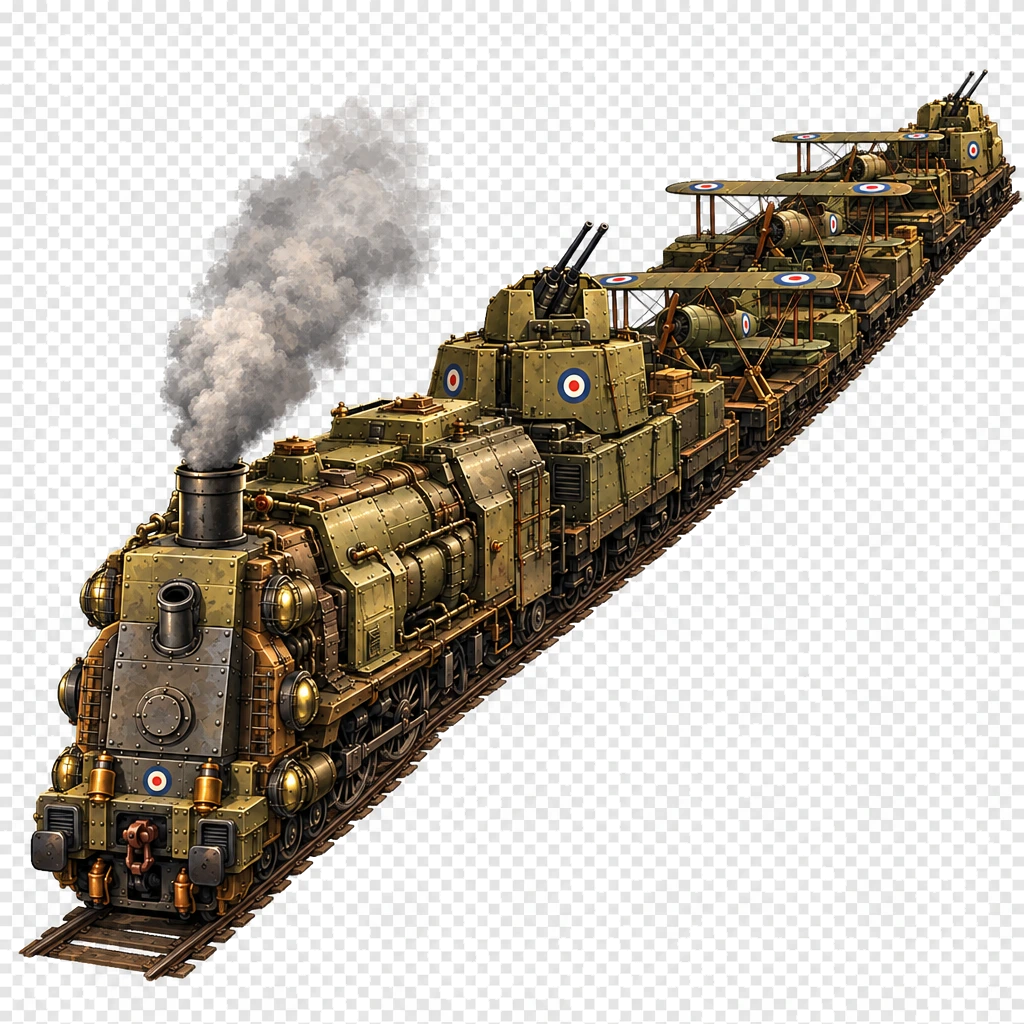
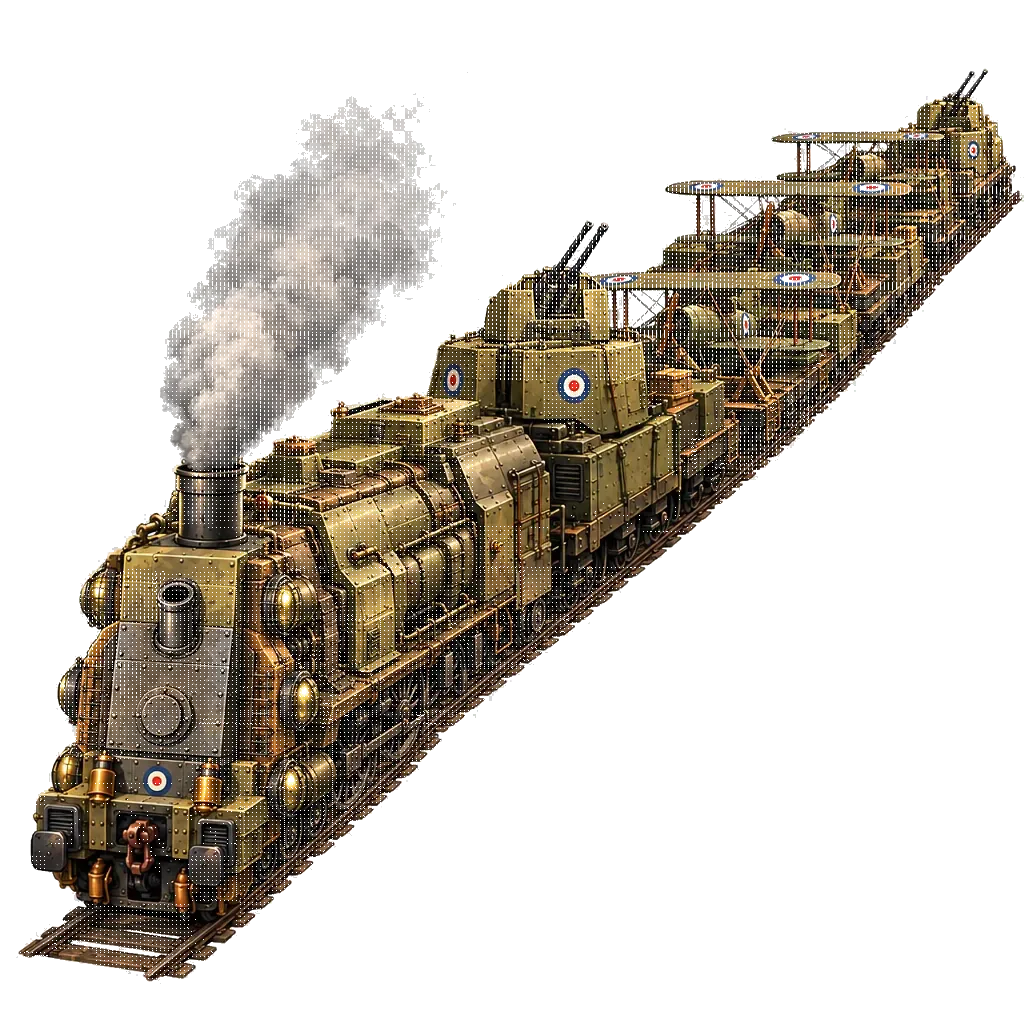
Fix fliegerzug cut-in art: remove baked checkerboard background

Changed region(s): [[0.0, 0.0, 1.0, 1.0], [0.3125, 0.6875, 0.3438, 0.7188], [0.125, 0.5625, 0.1562, 0.5938]]

diff --git a/app.js b/app.js
@@ -579,7 +579,7 @@ let legendarySignature='';
 const _hud51=hud;
 const RELIC_COOLDOWNS={grunkreuz:{rem:g=>g.grunkreuzOn>0?0:(g.grunkreuzOff??0),iv:()=>LEGENDARY_DEFENSE_BALANCE.grunkreuzOffDuration},rankinShell:{rem:g=>g.rankinTimer??0,iv:()=>LEGENDARY_DEFENSE_BALANCE.rankinInterval},kaiserFog:{rem:g=>g.brockSmokeTimer??g.kaiserFogTimer??0,iv:g=>g.brockSmoke?AUGMENTATION_OVERHAUL_BALANCE.smokeInterval:LEGENDARY_DEFENSE_BALANCE.fogInterval},motorCannon:{rem:g=>g.motorCannonTimer??0,iv:g=>g.ordnanceInterval?g.ordnanceInterval(LEGENDARY_BALANCE.motorCannonInterval):LEGENDARY_BALANCE.motorCannonInterval},sparkPlug:{rem:g=>g.mccuddenRepairTimer??0,iv:()=>AUGMENTATION_OVERHAUL_BALANCE.repairInterval}};
 const soloRelicRefs=[],coopRelicRefs={p1:[],p2:[]};
-const BOSS_CUTIN_ART={'gotha-squadron':'gotha_night.webp?v=483','london-apron-raid':'boss-art-london-apron.webp?v=338&b=326','paris-gun':'boss-art-paris-gun.webp?v=426&b=326','lincomparable':'boss-art-lincomparable.webp?v=426&b=326','sms-stuttgart':'boss-art-sms-stuttgart.webp?v=426&b=326','hms-zubian':'boss-art-hms-zubian.webp?v=426&b=326','a7v-flak':'boss-art-a7v-flak.webp?v=426&b=326','mark-v-cruiser':'boss-art-mark-v-cruiser.webp?v=426&b=326','livens-flame-projector':'boss-art-livens-flame-projector.webp?v=426&b=326','minenwerfer-battery':'boss-art-minenwerfer-battery.webp?v=426&b=326','drachen-net':'boss-art-drachen-net.webp?v=426&b=326','london-apron':'boss-art-london-apron.webp?v=426&b=326','zeppelin-l70':'boss-art-zeppelin-l70.webp?v=426&b=326','hma23':'boss-art-hma23.webp?v=426&b=326','gik':'boss-art-gik.webp?v=426&b=326','ca4':'boss-art-ca4.webp?v=426&b=326','armored-harbor-fortress':'boss-art-armored-harbor-fortress.webp?v=426&b=326','fliegerzug':'boss-art-fliegerzug.webp?v=483','treffas-wagen':'boss-art-treffas.webp?v=483','jasta11-circus':'portrait-baron.webp?v=426&b=326','naval10-black-flight':'portrait-collishaw.webp?v=426&b=326','mark4-wedge':'boss-art-mark1-20261001.webp?v=somme20261001','morser-battery':'boss-art-schwaben20261001.webp?v=somme20261001','staaken-rvi':'boss-art-staaken-rvi.webp?v=426&b=345','london-searchlight':'boss-art-london-searchlight.webp?v=426&b=345','flak-tower':'boss-art-flak-tower.webp?v=444'};;
+const BOSS_CUTIN_ART={'gotha-squadron':'gotha_night.webp?v=483','london-apron-raid':'boss-art-london-apron.webp?v=338&b=326','paris-gun':'boss-art-paris-gun.webp?v=426&b=326','lincomparable':'boss-art-lincomparable.webp?v=426&b=326','sms-stuttgart':'boss-art-sms-stuttgart.webp?v=426&b=326','hms-zubian':'boss-art-hms-zubian.webp?v=426&b=326','a7v-flak':'boss-art-a7v-flak.webp?v=426&b=326','mark-v-cruiser':'boss-art-mark-v-cruiser.webp?v=426&b=326','livens-flame-projector':'boss-art-livens-flame-projector.webp?v=426&b=326','minenwerfer-battery':'boss-art-minenwerfer-battery.webp?v=426&b=326','drachen-net':'boss-art-drachen-net.webp?v=426&b=326','london-apron':'boss-art-london-apron.webp?v=426&b=326','zeppelin-l70':'boss-art-zeppelin-l70.webp?v=426&b=326','hma23':'boss-art-hma23.webp?v=426&b=326','gik':'boss-art-gik.webp?v=426&b=326','ca4':'boss-art-ca4.webp?v=426&b=326','armored-harbor-fortress':'boss-art-armored-harbor-fortress.webp?v=426&b=326','fliegerzug':'boss-art-fliegerzug.webp?v=514','treffas-wagen':'boss-art-treffas.webp?v=483','jasta11-circus':'portrait-baron.webp?v=426&b=326','naval10-black-flight':'portrait-collishaw.webp?v=426&b=326','mark4-wedge':'boss-art-mark1-20261001.webp?v=somme20261001','morser-battery':'boss-art-schwaben20261001.webp?v=somme20261001','staaken-rvi':'boss-art-staaken-rvi.webp?v=426&b=345','london-searchlight':'boss-art-london-searchlight.webp?v=426&b=345','flak-tower':'boss-art-flak-tower.webp?v=444'};;
 function setBossCutin(imgSrc,name,kicker,detail,side='boss'){$('bossCutin').classList.toggle('skill-side',side==='skill');$('bossCutinImg').src=imgSrc;$('bossCutinImg').alt=name;$('bossCutinKicker').textContent=kicker;$('bossCutinName').textContent=name;$('bossCutinDetail').textContent=detail||''}
 function stageBossCutinCheck(){const sb=game?.stageBoss?.stages;if(sb&&sb.phase==='boss'&&sb.bossId&&sb.bossId!==lastStageBossId){lastStageBossId=sb.bossId;const nm=(getLocale()==='en'?BOSS_NAMES_EN[sb.bossId]:BOSS_CATALOG[sb.bossId]?.name)||sb.bossId;setBossCutin(BOSS_CUTIN_ART[sb.bossId]||'',nm,getLocale()==='en'?'AREA BOSS':'지역 보스',bossTactic(sb.encounter,getLocale()));$('bossWarnSub').textContent=nm+' · AREA BOSS INBOUND';show('bossWarning');{const warningRun=game,warningBoss=sb.encounter;setTimeout(()=>{if(game===warningRun&&game?.stageBoss?.stages.encounter===warningBoss)show('bossWarning',false)},1600)}bossCardFrom=performance.now()+1400;bossCutinUntil=bossCardFrom+2600;sfx('bossSting');{const run=game,encounter=sb.encounter;const later=(name,delay)=>setTimeout(()=>{if(game===run&&run.stageBoss?.stages.encounter===encounter&&run.state==='playing'&&!regionTransitionUntil&&!document.hidden)sfx(name)},delay);later('bossSting',620);if(['paris-gun','lincomparable','fliegerzug'].includes(sb.bossId))later('trainWhistle',380);if(BOSS_CATALOG[sb.bossId]?.stage===1)later('shipHorn',420)}}}
 function paintRelicBadge(rb){const c=rb.ctx,spec=RELIC_COOLDOWNS[rb.id],owner=rb.owner();let prog=1;if(spec&&owner){const iv=spec.iv(owner)||1;prog=Math.max(0,Math.min(1,1-Math.max(0,spec.rem(owner))/iv))}c.clearRect(0,0,48,48);if(prog>=1){drawGameIcon(c,rb.key,24,24,42);return}c.globalAlpha=.32;drawGameIcon(c,rb.key,24,24,42);c.globalAlpha=1;c.save();c.beginPath();c.moveTo(24,24);c.arc(24,24,26,-Math.PI/2,-Math.PI/2+prog*Math.PI*2);c.closePath();c.clip();drawGameIcon(c,rb.key,24,24,42);c.restore();if(prog>0&&prog<1){c.save();c.strokeStyle='#ffe9a8';c.lineWidth=2;c.beginPath();c.arc(24,24,21,-Math.PI/2,-Math.PI/2+prog*Math.PI*2);c.stroke();c.restore()}}
